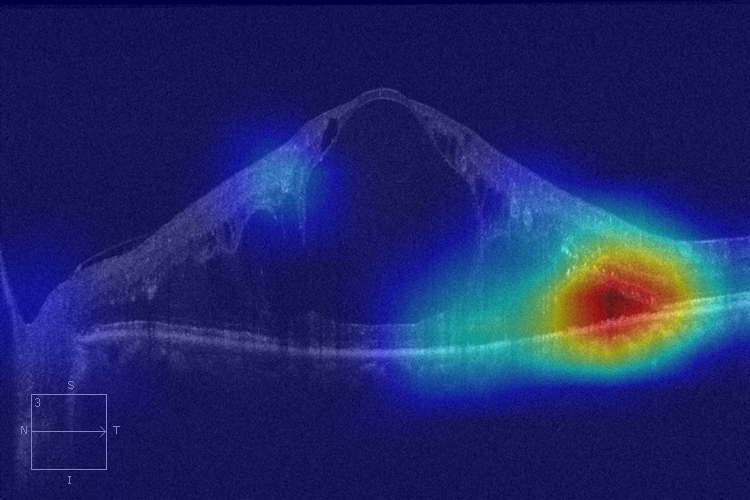
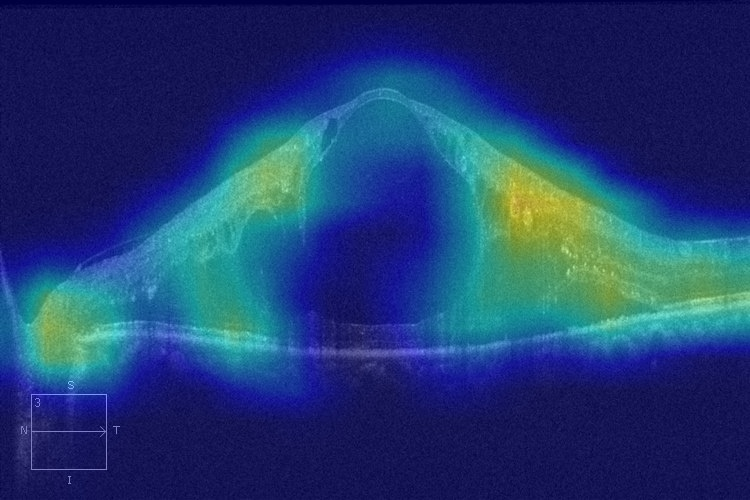
minor changes

diff --git a/CAM.py b/CAM.py
@@ -55,7 +55,7 @@ output = model(input_tensor)
 print(output)
 # ['srf', 'irf', 'ezAtt', 'ezDis', 'hrd', 'rpe', 'rt', 'dril']
 # activation_map = cam_extractor(output.squeeze(0).argmax().item(), output)
-targets = [ClassifierOutputTarget(0)]
+targets = [ClassifierOutputTarget(1)]
 grayscale_cam = cam(input_tensor=input_tensor,targets=targets,eigen_smooth=False, aug_smooth=True)
 grayscale_cam = grayscale_cam[0, :]
 # Visualize the raw CAM

diff --git a/model_gmd.py b/model_gmd.py
@@ -1,0 +1,9 @@
+import torch
+import torchvision
+from torchvision import transforms
+import pytorch_lightning as pl
+import numpy as np
+import matplotlib.pyplot as plt
+
+temp_model = torchvision.models.resnet18()
+print(temp_model)
